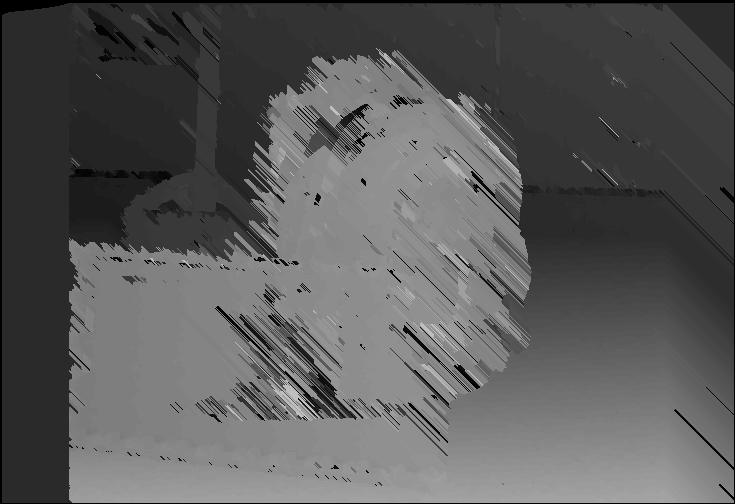
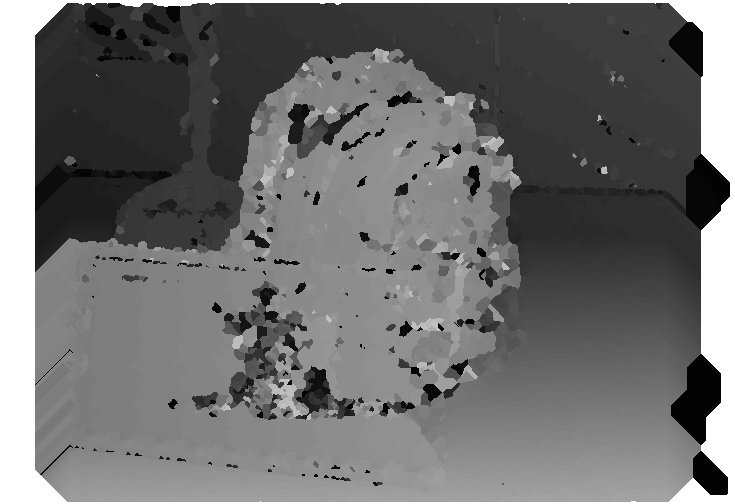
Improved occlusion filling but still some glitches

diff --git a/Single thread CPU/Code/main.c b/Single thread CPU/Code/main.c
@@ -450,6 +450,8 @@ void occlusion_filling(const char* input, const char* output){
 	error = lodepng_decode32_file(&image, &width, &height, input);
 	if(error) printf("error %u: %s\n", error, lodepng_error_text(error));
 
+	unsigned char* result = malloc(width * height * 4);
+
 	for(int h = halfWindowSize; h < height - halfWindowSize; h++){
 
 		for(int w = halfWindowSize; w < width - halfWindowSize; w++){
@@ -466,10 +468,10 @@ void occlusion_filling(const char* input, const char* output){
 
 								value = image[4 * width * j + 4 * i];
 
-								image[4 * width * h + 4 * w + 0] = value;
-								image[4 * width * h + 4 * w + 1] = value;
-								image[4 * width * h + 4 * w + 2] = value;
-								image[4 * width * h + 4 * w + 3] = 255;
+								result[4 * width * h + 4 * w + 0] = value;
+								result[4 * width * h + 4 * w + 1] = value;
+								result[4 * width * h + 4 * w + 2] = value;
+								result[4 * width * h + 4 * w + 3] = 255;
 
 								stop = 1;
 
@@ -496,14 +498,24 @@ void occlusion_filling(const char* input, const char* output){
 
 			}
 
+			else{
+
+				result[4 * width * h + 4 * w + 0] = image[4 * width * h + 4 * w + 0];
+				result[4 * width * h + 4 * w + 1] = image[4 * width * h + 4 * w + 1];
+				result[4 * width * h + 4 * w + 2] = image[4 * width * h + 4 * w + 2];
+				result[4 * width * h + 4 * w + 3] = 255;
+
+			}
+
 		}
 
 	}
 
-	 error = lodepng_encode32_file(output, image, width, height);
+	 error = lodepng_encode32_file(output, result, width, height);
 	 if(error) printf("error %u: %s\n", error, lodepng_error_text(error));
 
 	free(image);
+	free(result);
 
 }
 
@@ -517,7 +529,6 @@ int main(int argc, char* argv[]){
 	ZNCC_2("C:/Users/Nelson/Documents/Etudes/Multi threading/Images/left.png", "C:/Users/Nelson/Documents/Etudes/Multi threading/Images/right.png", "C:/Users/Nelson/Documents/Etudes/Multi threading/Images/depth2.png", 9);
 	cross_checking("C:/Users/Nelson/Documents/Etudes/Multi threading/Images/depth1.png", "C:/Users/Nelson/Documents/Etudes/Multi threading/Images/depth2.png", "C:/Users/Nelson/Documents/Etudes/Multi threading/Images/cross_check.png");
 	occlusion_filling("C:/Users/Nelson/Documents/Etudes/Multi threading/Images/cross_check.png", "C:/Users/Nelson/Documents/Etudes/Multi threading/Images/occlusion.png");
-	//show("C:/Users/Nelson/Documents/Etudes/Multi threading/Images/depth.png");
 
 	return 0;
 

diff --git a/README.md b/README.md
@@ -12,4 +12,4 @@ Multi-threading course project
 - [ ] Measure the total execution time of the implementation
 - [ ] Comment the code and make a documentation
 
-**The result of occlusion filling is a bit noisy, have to improve it**
+**Impoved occlusion, but still some holes on the picture**
